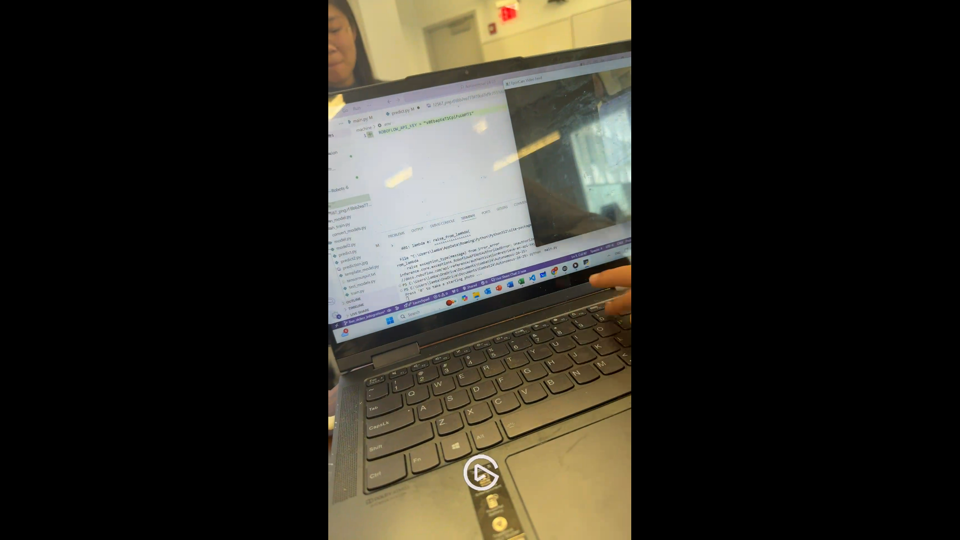
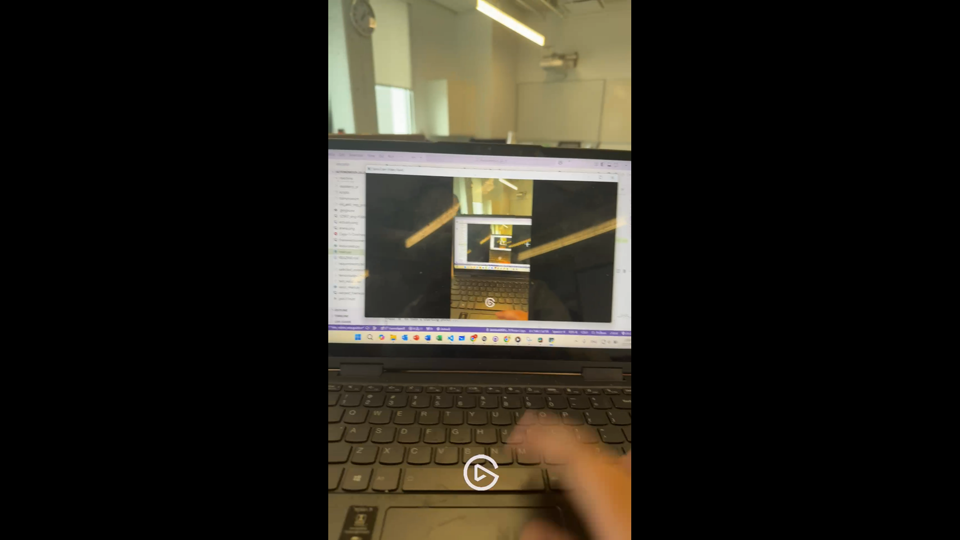
current live video

Changed region(s): [[0.3438, 0.0, 0.6562, 1.0]]

diff --git a/main.py b/main.py
@@ -13,7 +13,7 @@ import time
 from warp_main import get_homography_mat, warp
 from corner_detection.color_picker import ColorPicker
 from corner_detection.corner_detection import RobotCornerDetection
-from machine.predict import YoloModel
+from machine.predict import RoboflowModel
 
 # --------- TAKE A STARTING PHOTO ---------
 print("Press '0' to take a starting photo ...")
@@ -39,7 +39,7 @@ cv2.destroyAllWindows()
 # ---------- BEFORE THE MATCH ----------
 
 # Homography Matrix
-# frame = cv2.resize(frame, (0,0), fx=0.4, fy=0.4) # TODO: subject to change
+frame = cv2.resize(frame, (0,0), fx=0.4, fy=0.4) # TODO: subject to change
 h_mat = get_homography_mat(frame, 700, 700)
 warped_frame = warp(frame, h_mat, 700, 700)
 cv2.imshow("Warped Cage", warped_frame)
@@ -73,10 +73,11 @@ except Exception as e:
     exit(1)
 
 # Defining Corner Detection Object
-corner_detection = RobotCornerDetection(selected_colors)
+corner_detection = RobotCornerDetection(selected_colors)      
 
 # Defining ML Model Object
-predictor = YoloModel("100epoch11", "PT")
+#predictor = YoloModel("100epoch11", "PT")
+predictor = RoboflowModel()
 
 # # Defining Ram Ram Algorithm Object
 # # TODO: need to define the following: huey_position, huey_orientation, enemy_position
@@ -129,6 +130,7 @@ while True: # 🙏🙏🙏🙏🙏🙏🙏🙏🙏🙏 NO ONE CHANGE THIS PLEASE
     
 
     # 2. Warp image
+    frame = cv2.resize(frame, (0,0), fx=0.4, fy=0.4)
     warped_frame = warp(frame, h_mat, 700, 700)
     cv2.imshow("Warped Cage", warped_frame)
 
@@ -140,7 +142,7 @@ while True: # 🙏🙏🙏🙏🙏🙏🙏🙏🙏🙏 NO ONE CHANGE THIS PLEASE
 
     # 4. Corner Detection
     corner_detection.set_bots = detected_bots
-    # detected_bots_with_data = corner_detection.corner_detection_main()
+    detected_bots_with_data = corner_detection.corner_detection_main()
 
     # 5. Algorithm
     # motor_value = algorithm.ram_ram(detected_bots_with_data)

diff --git a/machine/predict.py b/machine/predict.py
@@ -16,7 +16,6 @@ import openvino as ov
 load_dotenv()
 
 ROBOFLOW_API_KEY = os.getenv('ROBOFLOW_API_KEY')
-
 DEBUG = False
 
 # I think this is broken... b/c of the model tho not the
@@ -167,7 +166,8 @@ class OurModel(TemplateModel):
 
 
 class RoboflowModel(TemplateModel):
-    def __init__(self):
+    def __init__(self):   
+        print("key"+ROBOFLOW_API_KEY)
         self.model = get_model(model_id='nhrl-robots/9',
                                api_key=ROBOFLOW_API_KEY)
 
@@ -281,7 +281,7 @@ class RoboflowModel(TemplateModel):
         #     )
 
         # Display the image with predictions
-        #cv2.imshow("Predictions", img)
+        cv2.imshow("Predictions", img)
         #cv2.waitKey(0)
         #cv2.destroyAllWindows()
 
@@ -502,4 +502,4 @@ if __name__ == '__main__':
     elapsed = end_time - start_time
     print(f'elapsed time: {elapsed:.4f}')
 
-    #predictor.show_predictions(img, bots)
+    predictor.show_predictions(img, bots)
